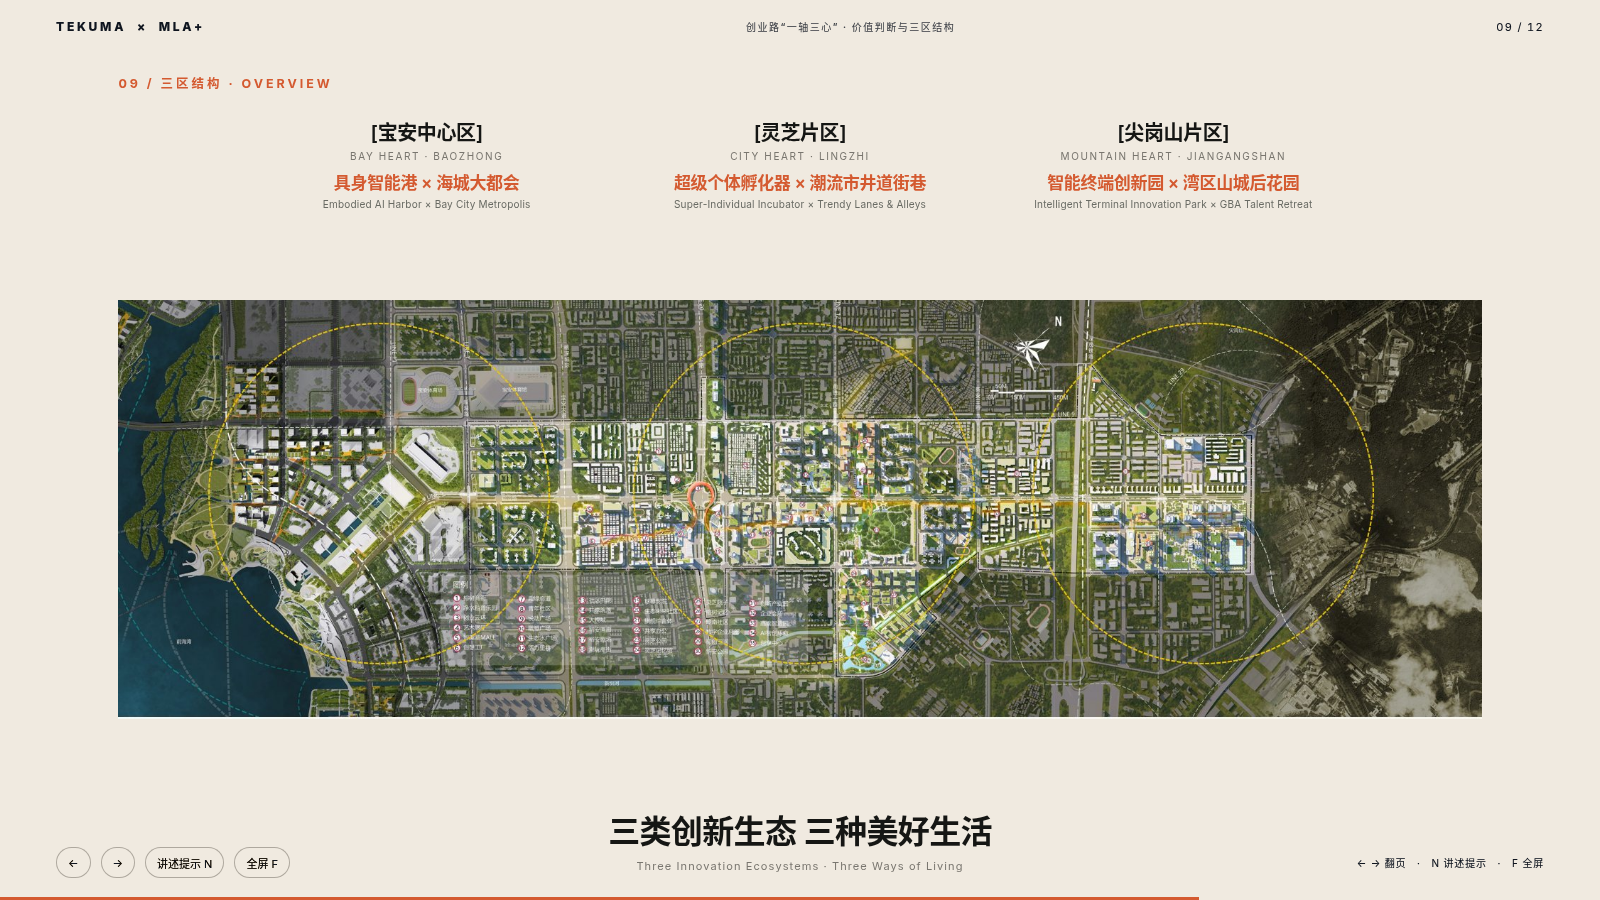
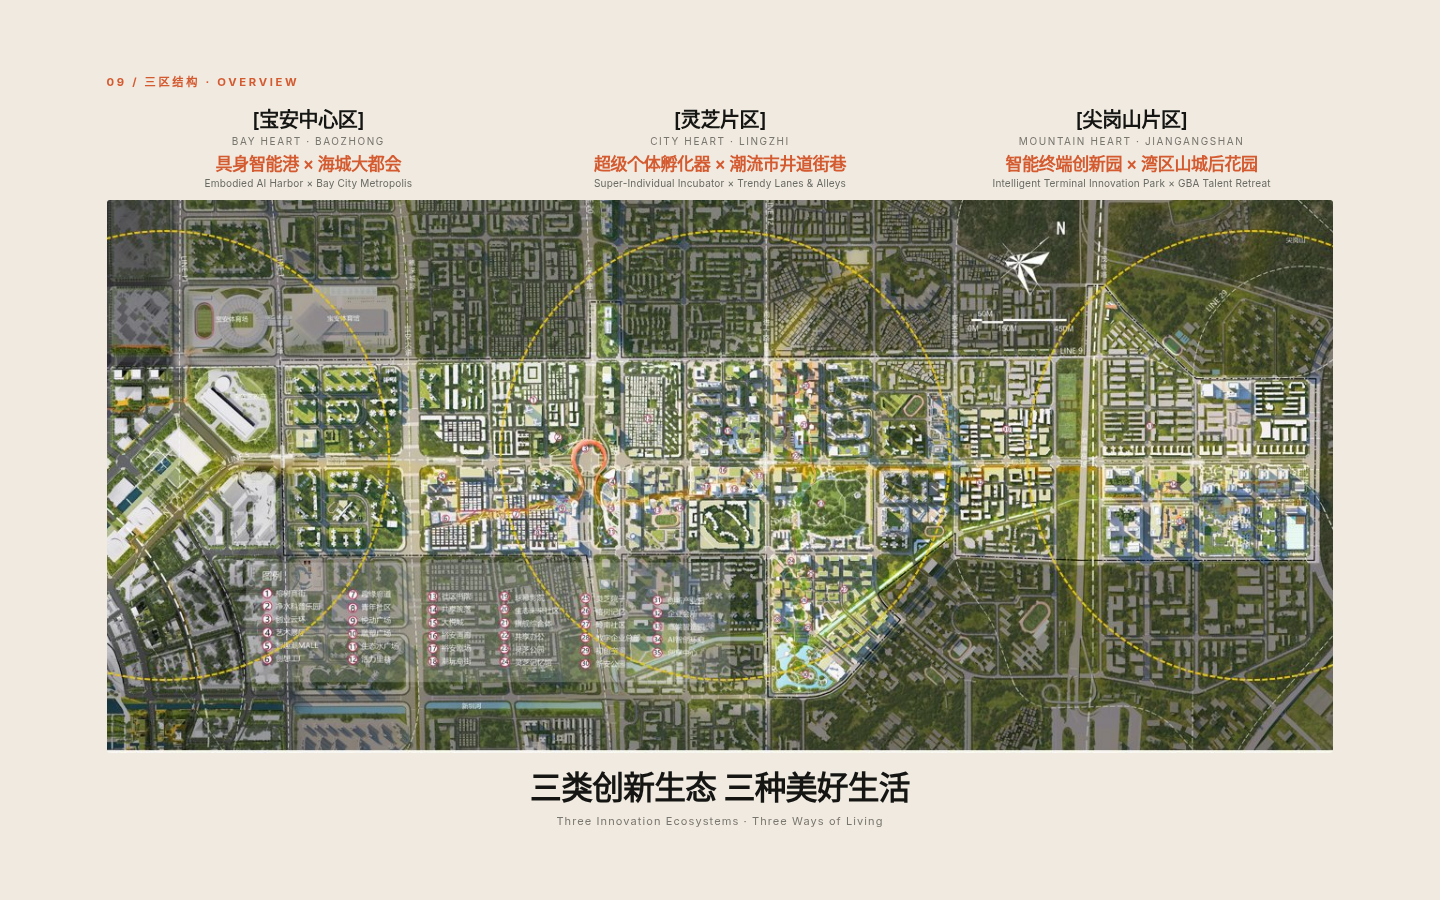
Overview: larger map, labels closer

diff --git a/index.html b/index.html
@@ -112,15 +112,15 @@
 .bridge-slogan{font-size:clamp(15px,1.45vw,20px);letter-spacing:.08em;color:#c3c8c0;font-weight:480}
 .bridge-meta{position:absolute;top:7.5vh;left:7.4vw;right:7.4vw;z-index:3;display:flex;justify-content:space-between;font-size:10px;letter-spacing:.14em;color:rgba(255,255,255,.4);text-transform:uppercase;pointer-events:none}
 /* overview */
-.ov-wrap{display:grid;grid-template-rows:auto 1fr auto;gap:14px;width:100%;height:calc(100svh - 16vh);max-width:1400px;margin:auto}
-.ov-top{display:grid;grid-template-columns:1fr 1fr 1fr;gap:20px;text-align:center;align-items:end;width:min(96%,1100px);margin:0 auto}
+.ov-wrap{display:grid;grid-template-rows:auto 1fr auto;gap:8px;width:100%;height:calc(100svh - 12vh);max-width:1600px;margin:auto;padding:0}
+.ov-top{display:grid;grid-template-columns:1fr 1fr 1fr;gap:16px;text-align:center;align-items:end;width:100%;margin:0 auto 2px;padding:0 4px}
 .ov-district{font-size:clamp(15px,1.5vw,20px);letter-spacing:-.02em;font-weight:600;color:var(--ink)}
-.ov-en{font-size:10px;letter-spacing:.16em;color:var(--muted);margin-top:4px;text-transform:uppercase}
-.ov-claim{font-weight:600;font-size:clamp(13px,1.25vw,17px);letter-spacing:-.02em;margin-top:10px;line-height:1.35;color:var(--orange)}
-.ov-claim-en{font-size:10px;color:#696b64;margin-top:4px;letter-spacing:.02em;line-height:1.35}
-.ov-map{min-height:0;display:flex;align-items:center;justify-content:center;overflow:hidden;border-radius:3px}
-.ov-map img{width:100%;height:100%;max-height:calc(100svh - 38vh);object-fit:contain;display:block}
-.ov-bottom{text-align:center;padding-top:4px}
+.ov-en{font-size:10px;letter-spacing:.16em;color:var(--muted);margin-top:2px;text-transform:uppercase}
+.ov-claim{font-weight:600;font-size:clamp(13px,1.25vw,17px);letter-spacing:-.02em;margin-top:6px;line-height:1.3;color:var(--orange)}
+.ov-claim-en{font-size:10px;color:#696b64;margin-top:2px;letter-spacing:.02em;line-height:1.3}
+.ov-map{min-height:0;flex:1;display:flex;align-items:stretch;justify-content:center;overflow:hidden;border-radius:3px;margin:0}
+.ov-map img{width:100%;height:100%;object-fit:cover;object-position:center;display:block;min-height:min(58vh,620px)}
+.ov-bottom{text-align:center;padding-top:6px}
 .ov-footer-cn{font-weight:600;font-size:clamp(20px,2.2vw,32px);letter-spacing:-.02em;line-height:1.3}
 .ov-footer-en{font-size:11px;letter-spacing:.1em;color:var(--muted);margin-top:6px}
 /* district */
@@ -176,6 +176,7 @@
 .thesis-plain{display:flex;align-items:center;justify-content:center;height:100%;width:100%;text-align:center}
 .thesis-lines{margin:0;font-family:"Noto Serif SC","Songti SC","STSong",serif;font-size:clamp(20px,2.15vw,34px);font-weight:500;line-height:1.85;letter-spacing:.04em;color:var(--ink);max-width:48em}
 
+.slide:has(.ov-wrap) .smallcap{margin-bottom:1.4vh}.slide:has(.ov-wrap) .slide-content{padding-top:0;align-self:stretch;height:100%;display:flex;flex-direction:column}
 </style>
 </head>
 <body>
